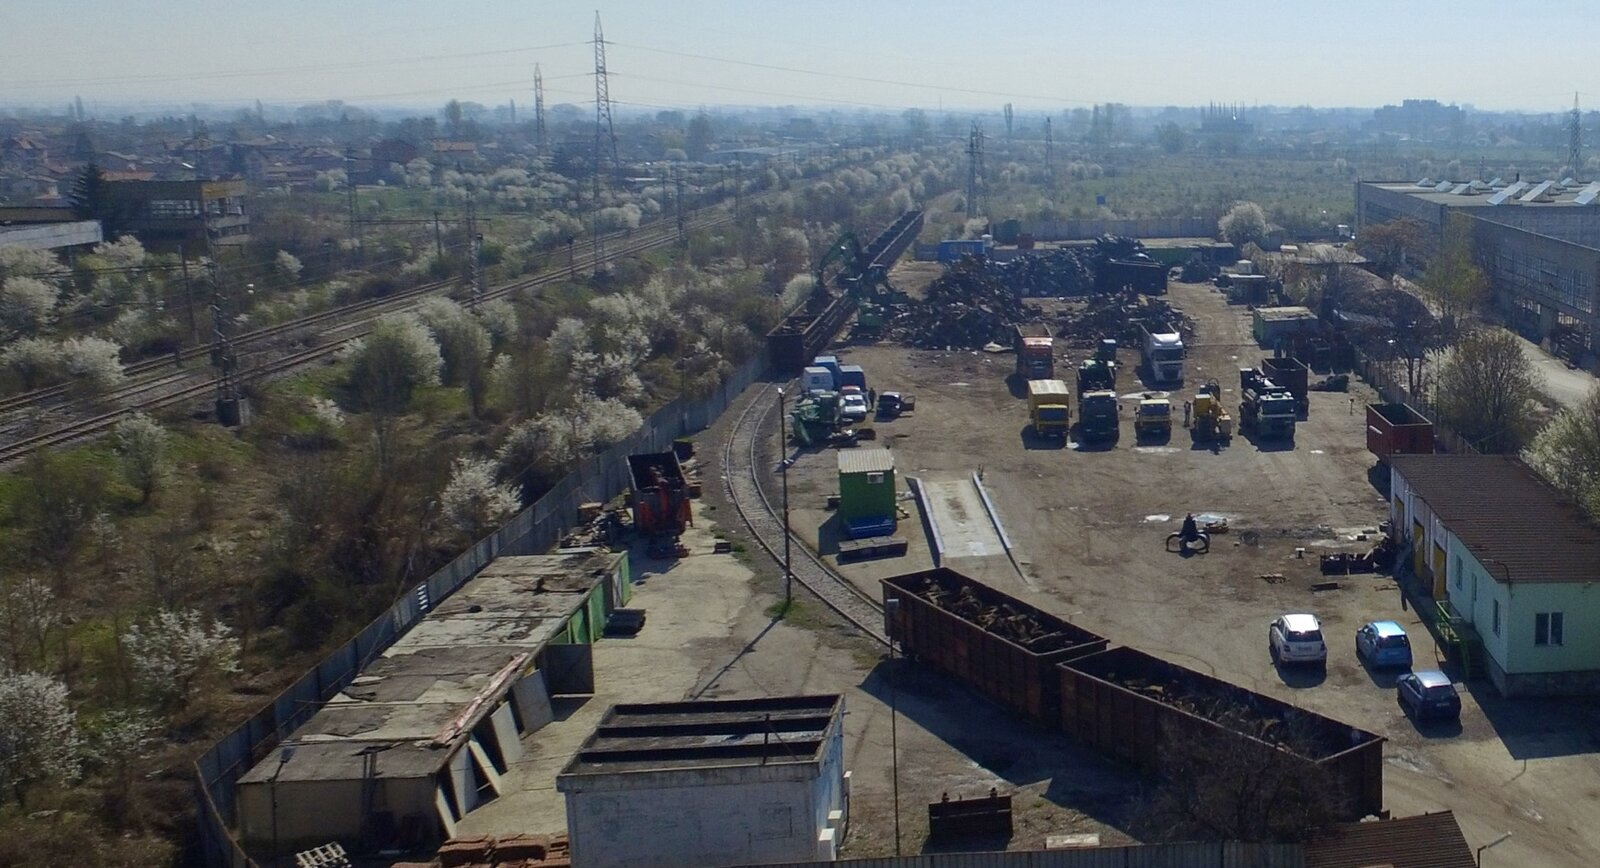
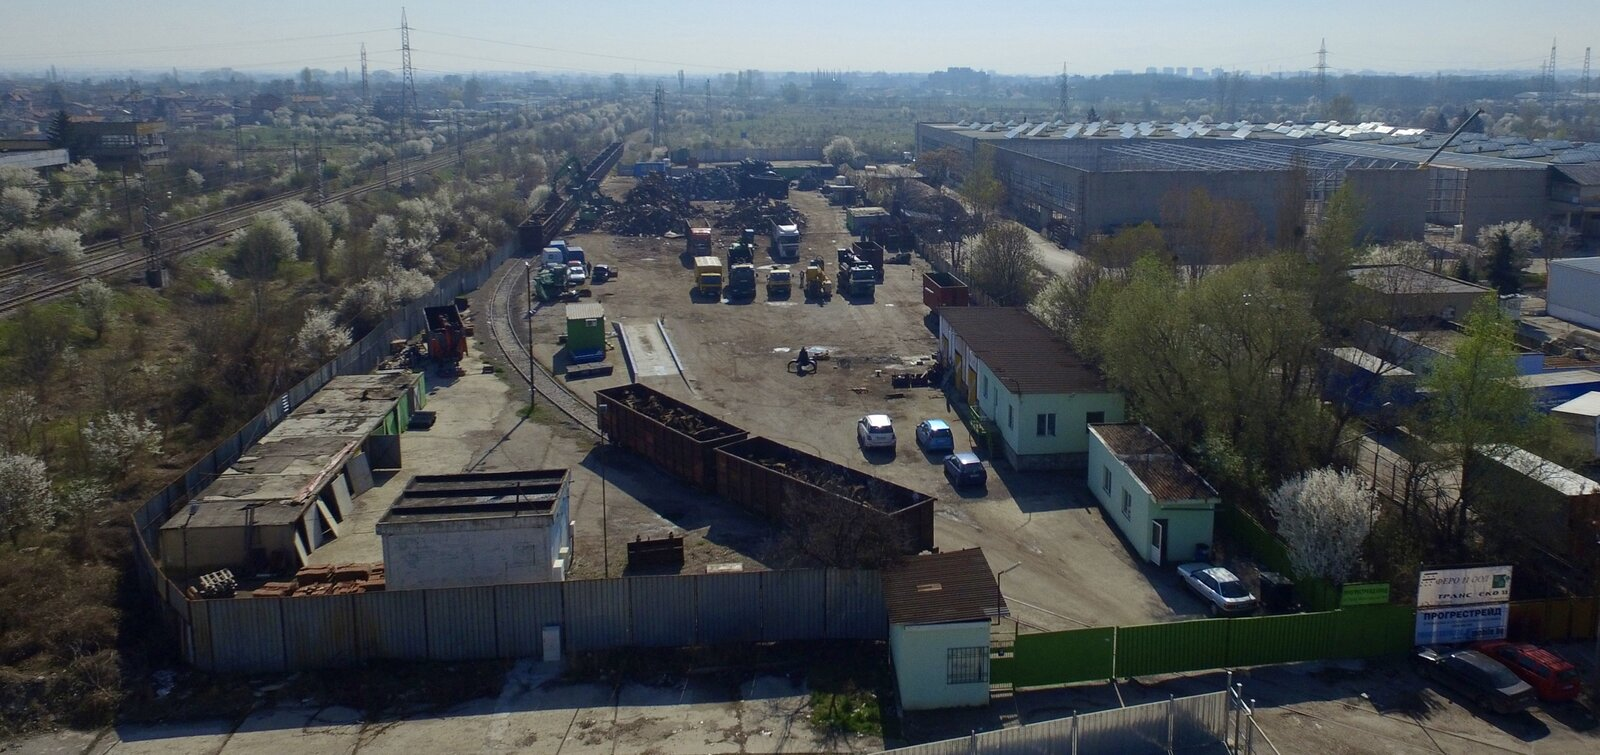
Use the full, uncropped aerial site photo
Claude-Session: https://claude.ai/code/session_01152wzKn18EXA6wknEfAC9k

diff --git a/src/pages/contact.html b/src/pages/contact.html
@@ -89,7 +89,7 @@
 </div>
 </div>
 <figure class="site-photo location__map">
-<img src="images/site-aerial.jpg" width="1600" height="868" alt="Площадката на Balkan Recycling Center в София, снимана отвисоко: железопътна линия, кантар, камиони и складови площи" loading="lazy" decoding="async">
+<img src="images/site-aerial.jpg" width="1600" height="755" alt="Площадката на Balkan Recycling Center в София, снимана отвисоко: железопътна линия, кантар, камиони и складови площи" loading="lazy" decoding="async">
 <figcaption>Площадката ни в София – 10 000 м² с железопътен достъп</figcaption>
 </figure>
 </div>

diff --git a/src/pages/trust.html b/src/pages/trust.html
@@ -43,7 +43,7 @@
 </div>
 </div>
 <figure class="site-photo sites__map">
-<img src="images/site-aerial.jpg" width="1600" height="868" alt="Площадката на Balkan Recycling Center в София, снимана отвисоко: железопътна линия, кантар, камиони и складови площи" loading="lazy" decoding="async">
+<img src="images/site-aerial.jpg" width="1600" height="755" alt="Площадката на Balkan Recycling Center в София, снимана отвисоко: железопътна линия, кантар, камиони и складови площи" loading="lazy" decoding="async">
 <figcaption>Площадката ни в София – 10 000 м² с железопътен достъп</figcaption>
 </figure>
 </div>
